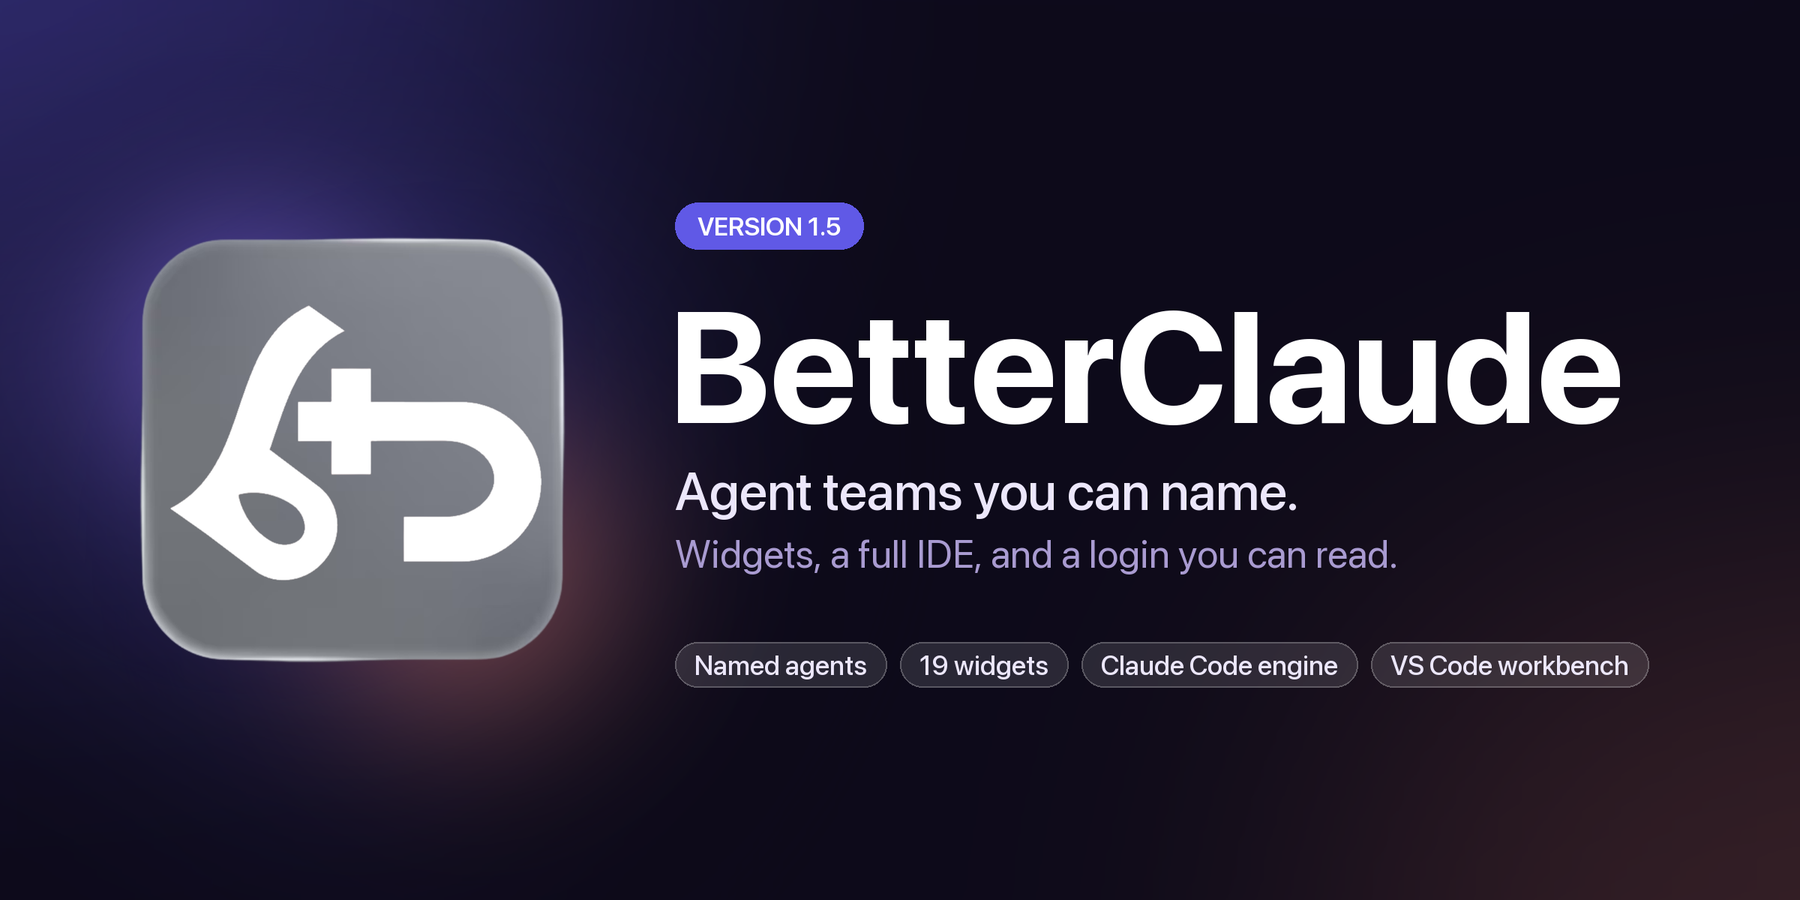
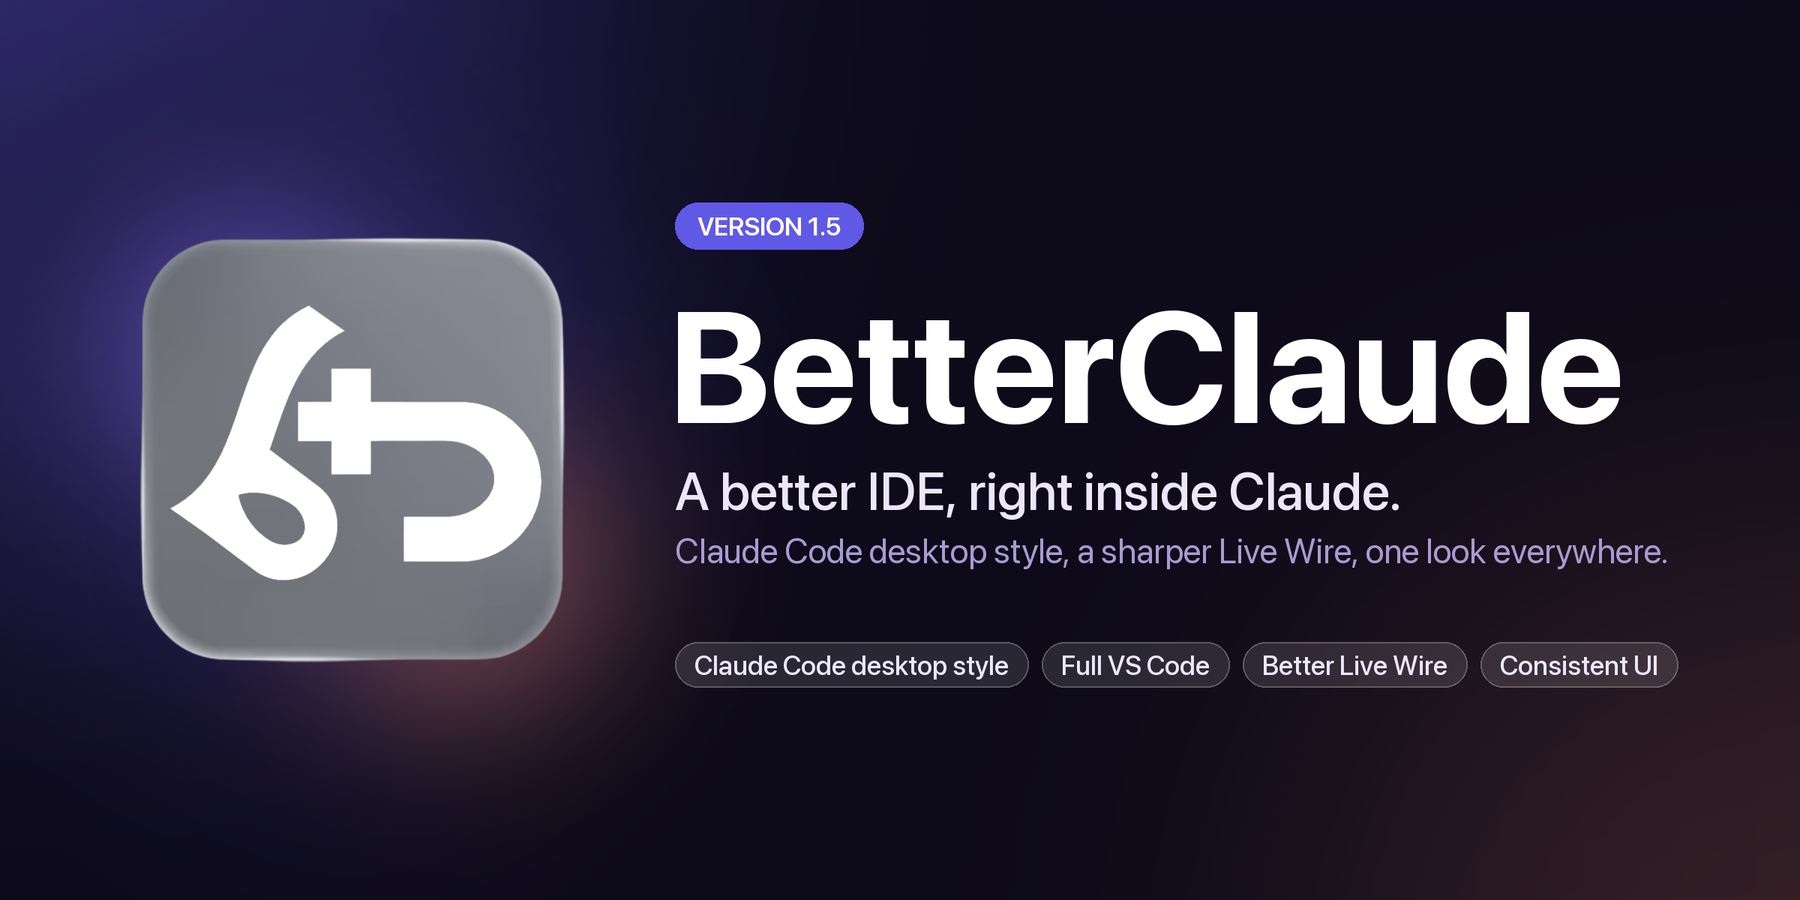
docs: rework the 1.5.0 release notes around the IDE style, the Code tab and the Live Wire
New hero, Code tab, IDE and themes images, a Live Wire headline on the team image,
and notes that lead with a Code tab like Claude Code desktop, the optional VS Code
workbench, the Live Wire and one consistent look. Agent names and the sign-in fix
move to smaller items. Screenshots carry no em dashes.

Changed region(s): [[0.3733, 0.5289, 0.9333, 0.6533], [0.3733, 0.7156, 0.9333, 0.7778]]

diff --git a/docs/releases/v1.5.0.md b/docs/releases/v1.5.0.md
@@ -1,23 +1,45 @@
-BetterClaude 1.5 is the biggest update so far. Your agents get plain names you can change, the Code tab runs the real Claude Code engine, there is an optional full VS Code inside the app, and the sign in page finally lets you click its buttons.
+BetterClaude 1.5 is the update that makes the Code tab feel like a proper IDE. It now looks and works like Claude Code desktop, there is an optional full VS Code beside the chat, the Live Wire shows what your agents are doing much better, and every screen shares one consistent look.
 
 ![BetterClaude 1.5](https://raw.githubusercontent.com/ara-mkr/BetterClaude/main/.github/readme-assets/v1.5-hero.png)
 
-## What's in it
+## What's new
 
-- **Agent teams with names.** Agent 001, Agent 002, Agent 003, and you can rename any of them.
-- **The Code tab runs real Claude Code.** Approval cards, plan mode and parallel sessions, all on your Claude plan.
-- **A full VS Code, if you want one.** An optional download, with extensions from Open VSX.
-- **19 widgets,** 12 of them new. All off until you switch them on.
-- **A new icon,** and a plain white mark in the menu bar.
-- **Fixes you'll notice:** a sign in page you can actually use, a Settings window that sits where it should, and no more theme colors leaking into BetterClaude's own panels.
+- **A Code tab that works like Claude Code desktop.** Projects and sessions on the left, one conversation in the middle, and Changes, Files and Terminal when you want them.
+- **A real IDE when you want one.** Flip a switch and VS Code sits beside the chat, with your extensions, your theme and Commit & PR.
+- **A better Live Wire.** Every message and hand-off in the order it really happened, with tags you can scan, and agents with plain names you can change.
+- **One consistent look.** Chat, Code, CLI, Settings and the widgets all follow the same theme now, whichever theme you pick.
+- **12 new widgets,** a new icon, and a sign in page you can click.
 
-## Agents with names
+## A Code tab that works like Claude Code desktop
+
+![The Code tab](https://raw.githubusercontent.com/ara-mkr/BetterClaude/main/.github/readme-assets/v1.5-code.png)
+
+Open Code and you land in the conversation, the way you do in Claude Code desktop. Your projects and their sessions sit in the sidebar. Click an old session and its whole transcript loads. Several sessions can run side by side, each streaming its own reply.
+
+- **Each tab is a real Claude Code session,** not a lookalike. Commands, questions and plans show up as cards you answer in the app.
+- **Four modes:** Ask, Accept edits, Plan and Auto. Stop stops. Background tasks report back and start their own follow-up turn.
+- **The side panel comes and goes.** Changes shows the diff and a **Commit & PR** button, Files browses the project, and Terminal gives you a shell in the folder.
+- **The composer is quick.** Enter sends, `/` opens the slash menu, drafts are kept per tab, and a mic button dictates locally on macOS.
+- **You always see where you stand.** A usage ring in the sidebar, a per-reply token line, and a model menu for Opus, Sonnet, Haiku and free models.
+- **It runs on your Claude plan.** If a settings file would send the chat to an API key or another provider, BetterClaude stops before sending anything and tells you why.
+
+## A real IDE, when you want one
+
+![VS Code inside the Code tab](https://raw.githubusercontent.com/ara-mkr/BetterClaude/main/.github/readme-assets/v1.5-ide.png)
+
+Flip the layout (Cmd-Opt-I) and the Code tab becomes a real VS Code workbench with the chat beside it. It is optional. Nothing downloads until you say so, and the size and source are shown first.
+
+- Install extensions from Open VSX, import the ones you already have from VS Code, Cursor or Antigravity, or drop in a `.vsix`.
+- Your theme and code font follow BetterClaude. Open a file or a diff straight from the chat, send a selection to the chat with Cmd-Opt-L, and use Commit & PR from Source Control.
+- It all stays on your machine. The engine listens on 127.0.0.1 only, its token never shows up in a URL or a log, and it stops itself after ten idle minutes.
+
+## A better Live Wire
 
 ![The Agent team panel and the Live Wire](https://raw.githubusercontent.com/ara-mkr/BetterClaude/main/.github/readme-assets/v1.5-team.png)
 
-Teammates used to arrive with codenames like Atlas and Nova. Now they are Agent 001, Agent 002 and Agent 003, handed out in order. If you would rather have Backend and Reviewer, double-click a name or press **Rename** on its card. Nothing else changes. Its work, its history and its messages stay put, and the old name keeps working for any agent that still signs its messages with it.
+The Live Wire is the rail where you watch your agents work together. It now shows every message and hand-off in the order it really happened, even when an agent stamps a made-up time on it. Review, done, question and handoff tags are easy to scan, and a long sender name no longer squeezes the recipient down to one letter.
 
-The Live Wire on the right shows every message and hand-off in the order it really happened. Review, done, question and handoff tags are easy to scan, and a long sender name no longer squeezes the recipient down to one letter.
+Teammates used to arrive with codenames like Atlas and Nova. Now they are Agent 001, Agent 002 and Agent 003, handed out in order. If you would rather have Backend and Reviewer, double-click a name or press **Rename** on its card. Its work, its history and its messages stay put, and the old name keeps working for any agent that still signs with it.
 
 **How a message reaches an agent**
 
@@ -28,27 +50,18 @@ The Live Wire on the right shows every message and hand-off in the order it real
 
 **Code tab chats can join a team too** (More, then Join the agent team). A teammate's message follows that chat's own mode. In Ask mode, an edit a teammate asks for raises the same approval card as anything else, and if you change the mode chip after joining, the next teammate turn follows it. Before this release a chat kept the mode it had when it joined, so tightening to Ask later could still let a teammate's edit through. That is fixed.
 
-## The Code tab runs real Claude Code
+## One consistent look
 
-![The Code tab](https://raw.githubusercontent.com/ara-mkr/BetterClaude/main/.github/readme-assets/code-tabs.png)
+![The theme picker](https://raw.githubusercontent.com/ara-mkr/BetterClaude/main/.github/readme-assets/v1.5-themes.png)
 
-Each tab is a real Claude Code session, not a lookalike.
+Chat, Code, the CLI tab, Settings and the widgets now draw from the same set of colors and sizes, so picking a theme changes all of them together, light or dark.
 
-- Commands, questions and plans show up as cards you answer in the app. Ask, Accept edits, Plan and Auto are all there, and Stop stops.
-- Background tasks report back and start their own follow-up turn. Old sessions reopen from disk with their tool rows.
-- It runs on your Claude plan. If a settings file would send the chat to an API key or another provider, BetterClaude stops before sending anything and tells you why.
-- Drafts are kept per tab, and opening another project in the sidebar no longer moves the conversation you are in.
-- Ollama answers now stream, so a long answer is no longer cut off at 60 seconds.
-
-## Full VS Code, if you want it
-
-![VS Code inside the Code tab](https://raw.githubusercontent.com/ara-mkr/BetterClaude/main/.github/readme-assets/ide-extensions.png)
-
-Flip the layout (Cmd-Opt-I) and the Code tab becomes a real VS Code workbench with the chat beside it. It is optional. Nothing downloads until you say so, and the size and source are shown first.
-
-- Install extensions from Open VSX, import the ones you already have from VS Code, Cursor or Antigravity, or drop in a `.vsix`.
-- Your theme and code font follow BetterClaude. Open a file or a diff straight from the chat, send a selection to the chat with Cmd-Opt-L, and use Commit & PR from Source Control.
-- It all stays on your machine. The engine listens on 127.0.0.1 only, its token never shows up in a URL or a log, and it stops itself after ten idle minutes.
+- **Theme resets no longer bleed into BetterClaude's own panels.** The Team sidebar, widgets and Quick Prompts follow every theme instead of picking up the page's colors.
+- **The Code tab keeps its type scale** under every theme. It used to be flattened to a single size.
+- **The composer** no longer shows a hard-cornered box inside its rounded card, and the send button is one clean fill.
+- **Settings** opens centered with an even margin. In the CLI pane it used to sit low with a dead strip above it.
+- **Density:** Spacious now actually spaces things out.
+- Every theme was regenerated.
 
 ## 12 new widgets
 
@@ -71,25 +84,21 @@ Settings, then Widgets. They are all off by default, and each one adds a small b
 | Model Switcher | Pick the Code tab's model from the dock |
 | Scratchpad | One big plain-text pad that survives restarts |
 
-Plan Usage reads the number Claude Code reports with each reply. Nothing is scraped, stored or sent anywhere. Cards now open just below the dock instead of on top of it, and the dock wraps instead of running into the page.
+Plan Usage reads the number Claude Code reports with each reply. Nothing is scraped, stored or sent anywhere. Cards open just below the dock instead of on top of it, and the dock wraps instead of running into the page.
 
-## A sign in page you can use
+## A sign in page you can click
 
 ![The sign in page, readable again](https://raw.githubusercontent.com/ara-mkr/BetterClaude/main/.github/readme-assets/v1.5-signin.png)
 
-If you opened Chat while signed out, you could land on a page with a video playing and no buttons you could see or click. Two bugs were hiding the page from you. The app was forcing the page into a window-high box, which pushed the sign in form above the top edge, and some themes painted a button's label in the same color as its fill. High Contrast turned "Continue with email" into white text on a white button.
-
-Now the form sits where you can reach it, each button label is picked from the color the button is actually painted with, in every theme, and your widgets stay out of the way while you sign in. If you see this page inside BetterClaude, you are signed out of claude.ai, so sign in once and you're back.
+If you opened Chat while signed out, you could land on a page with a video playing and no buttons you could see or click. The app was forcing the page into a window-high box, which pushed the form above the top edge, and some themes painted a button's label in the same color as its fill. Now the form sits where you can reach it, each label is picked from the color the button is actually painted with, and your widgets stay out of the way. If you see this page inside BetterClaude, you are signed out of claude.ai, so sign in once and you're back.
 
 ## The small stuff
 
-- **Settings** opens centered with an even margin. In the CLI pane it used to sit low with a dead strip above it, and over the CLI or Code tab claude.ai's own sign in page used to show through behind the dialog.
-- **Themes:** resets no longer bleed into BetterClaude's own panels, so the Team sidebar, widgets and Quick Prompts follow every theme, light or dark. The composer no longer shows a hard-cornered box inside its rounded card. Every theme was regenerated.
-- **Density:** Spacious now actually spaces things out.
+- **A new icon** in liquid glass, and a white-mark-only glyph in the menu bar that adapts to light and dark.
 - **CLI tab:** a new "Load my ~/.claude settings in CLI tabs" setting, on by default like your terminal. Turn it off to keep the tabs on your plan. Escape closes the Team sidebar, the Live Wire and the Sessions picker.
-- **Teams:** a chat that joins no longer gets the title "Empty Conversation Start", and session titles never show the delivery header.
-- **Safety:** `settings:set` accepts writes only from BetterClaude's own windows.
-- **A new icon** in liquid glass, and a white-mark-only template glyph in the menu bar that adapts to light and dark.
+- Ollama answers now stream, so a long answer is no longer cut off at 60 seconds.
+- A chat that joins a team no longer gets the title "Empty Conversation Start", and session titles never show the delivery header.
+- `settings:set` accepts writes only from BetterClaude's own windows.
 
 ## Downloads
 
@@ -98,8 +107,6 @@ Now the form sits where you can reach it, each button label is picked from the c
 | `BetterClaude-1.5.0-arm64.dmg` | macOS, Apple Silicon |
 | `BetterClaude-1.5.0-x64.dmg` | macOS, Intel |
 | `BetterClaude.Setup.1.5.0.exe` | Windows 10/11, 64-bit |
-
-The Windows installer is built by a GitHub Action after the release goes up, so the `.exe` can show up a few minutes after the Mac files.
 
 ## First launch
 
